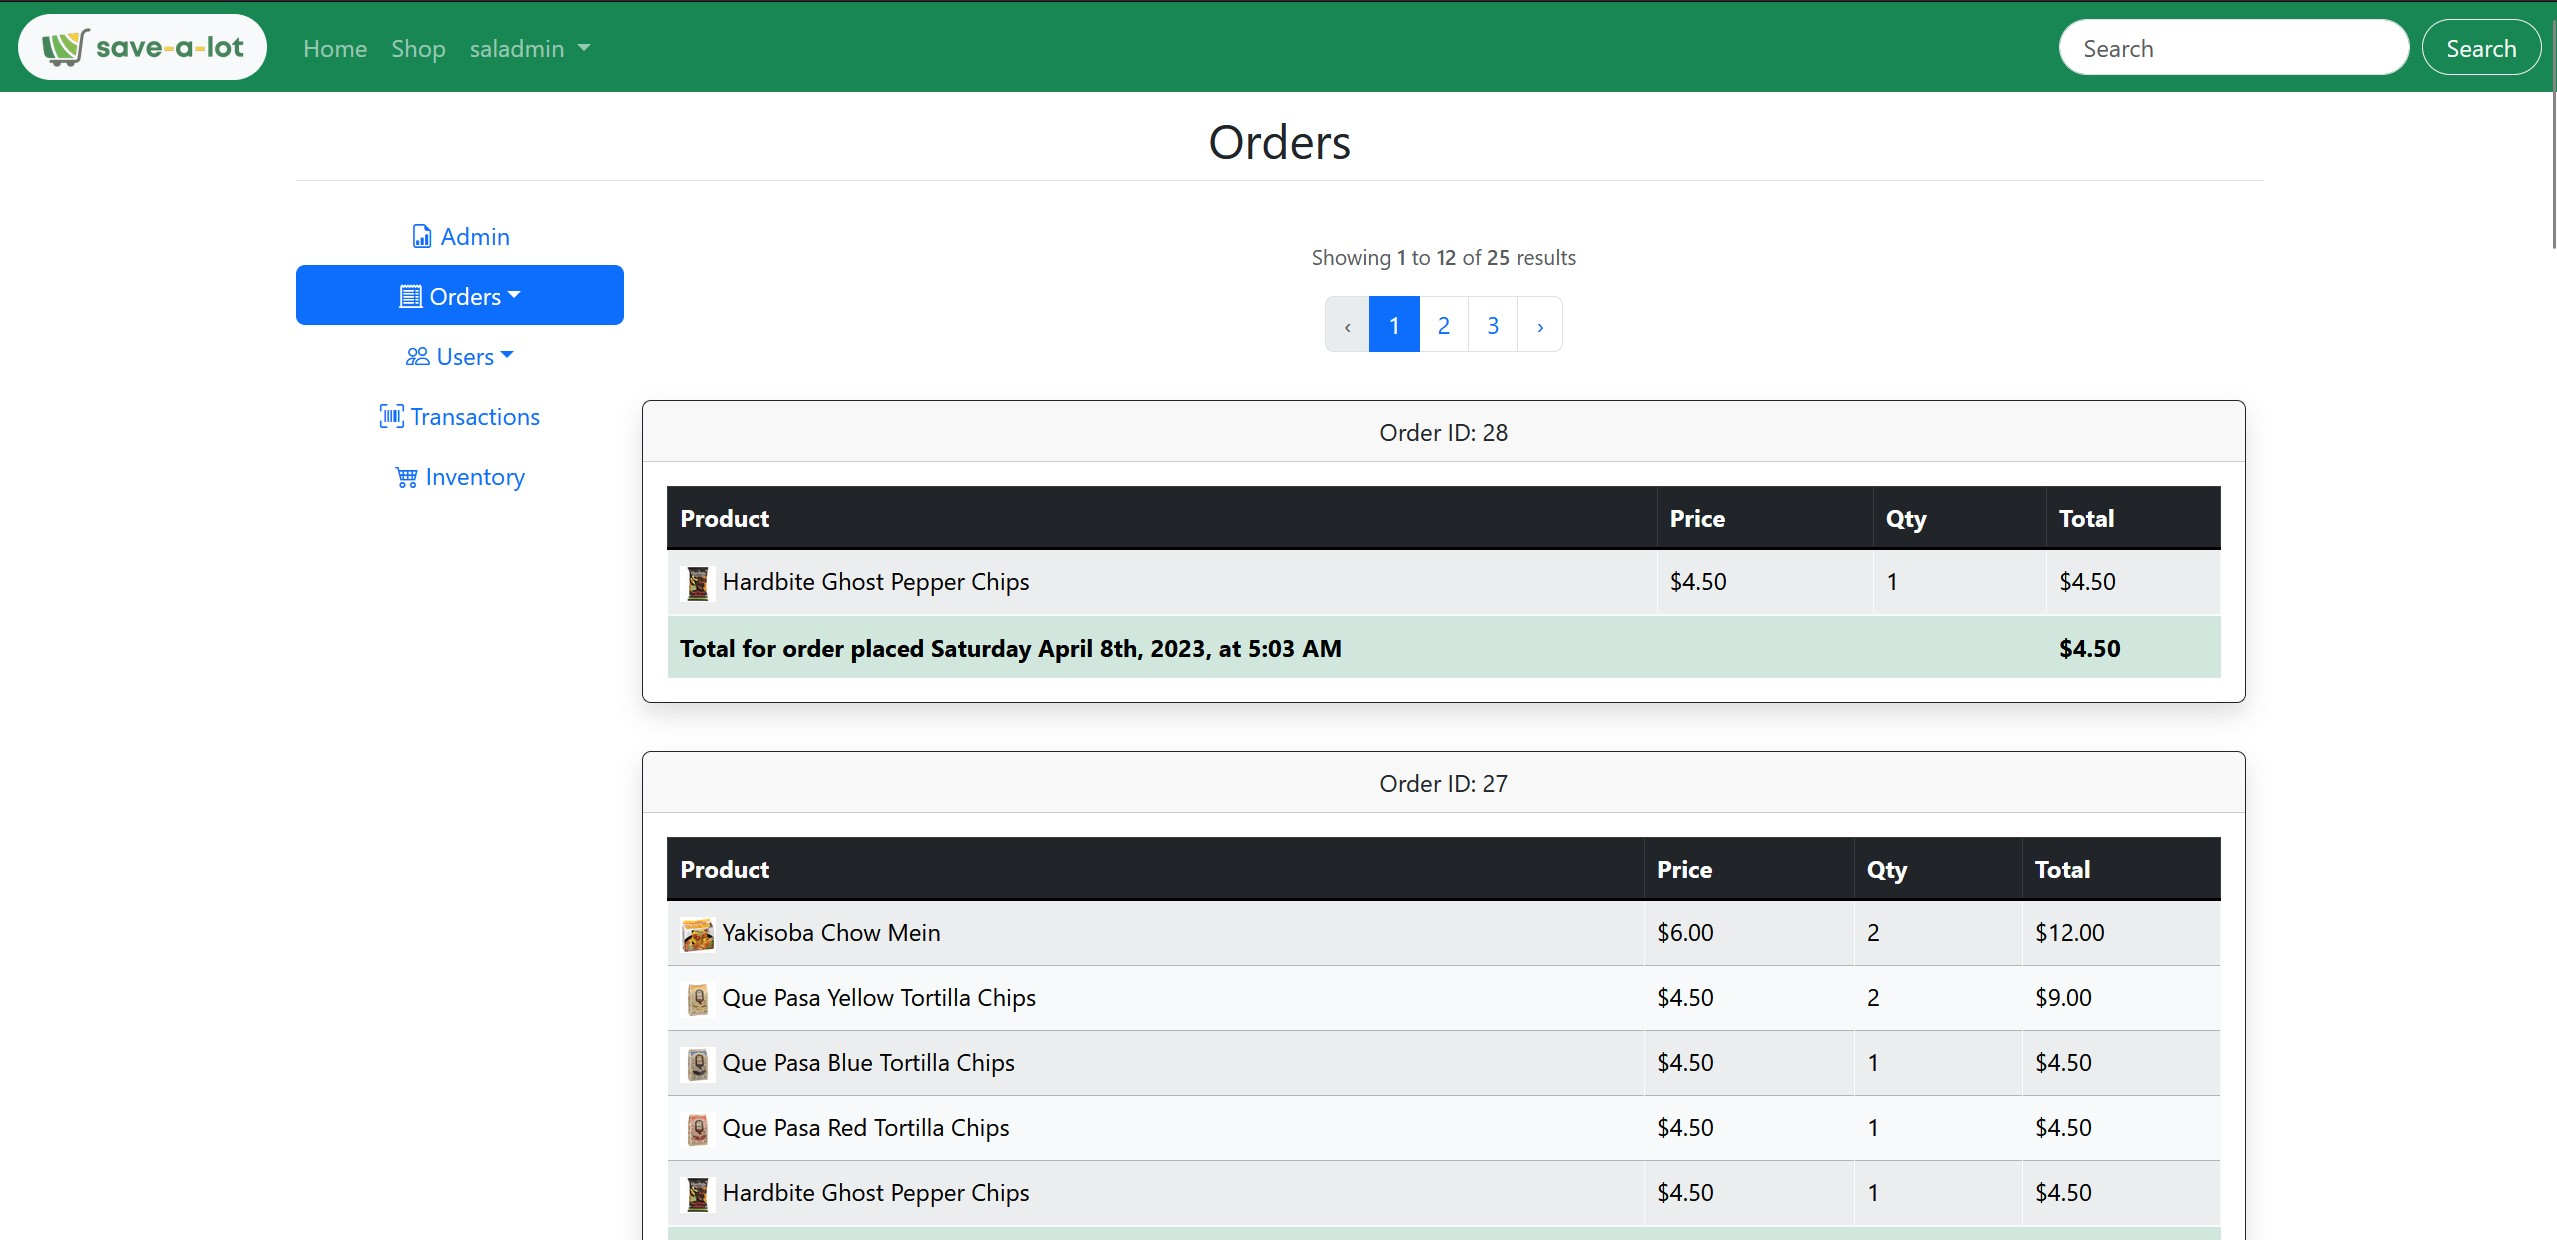
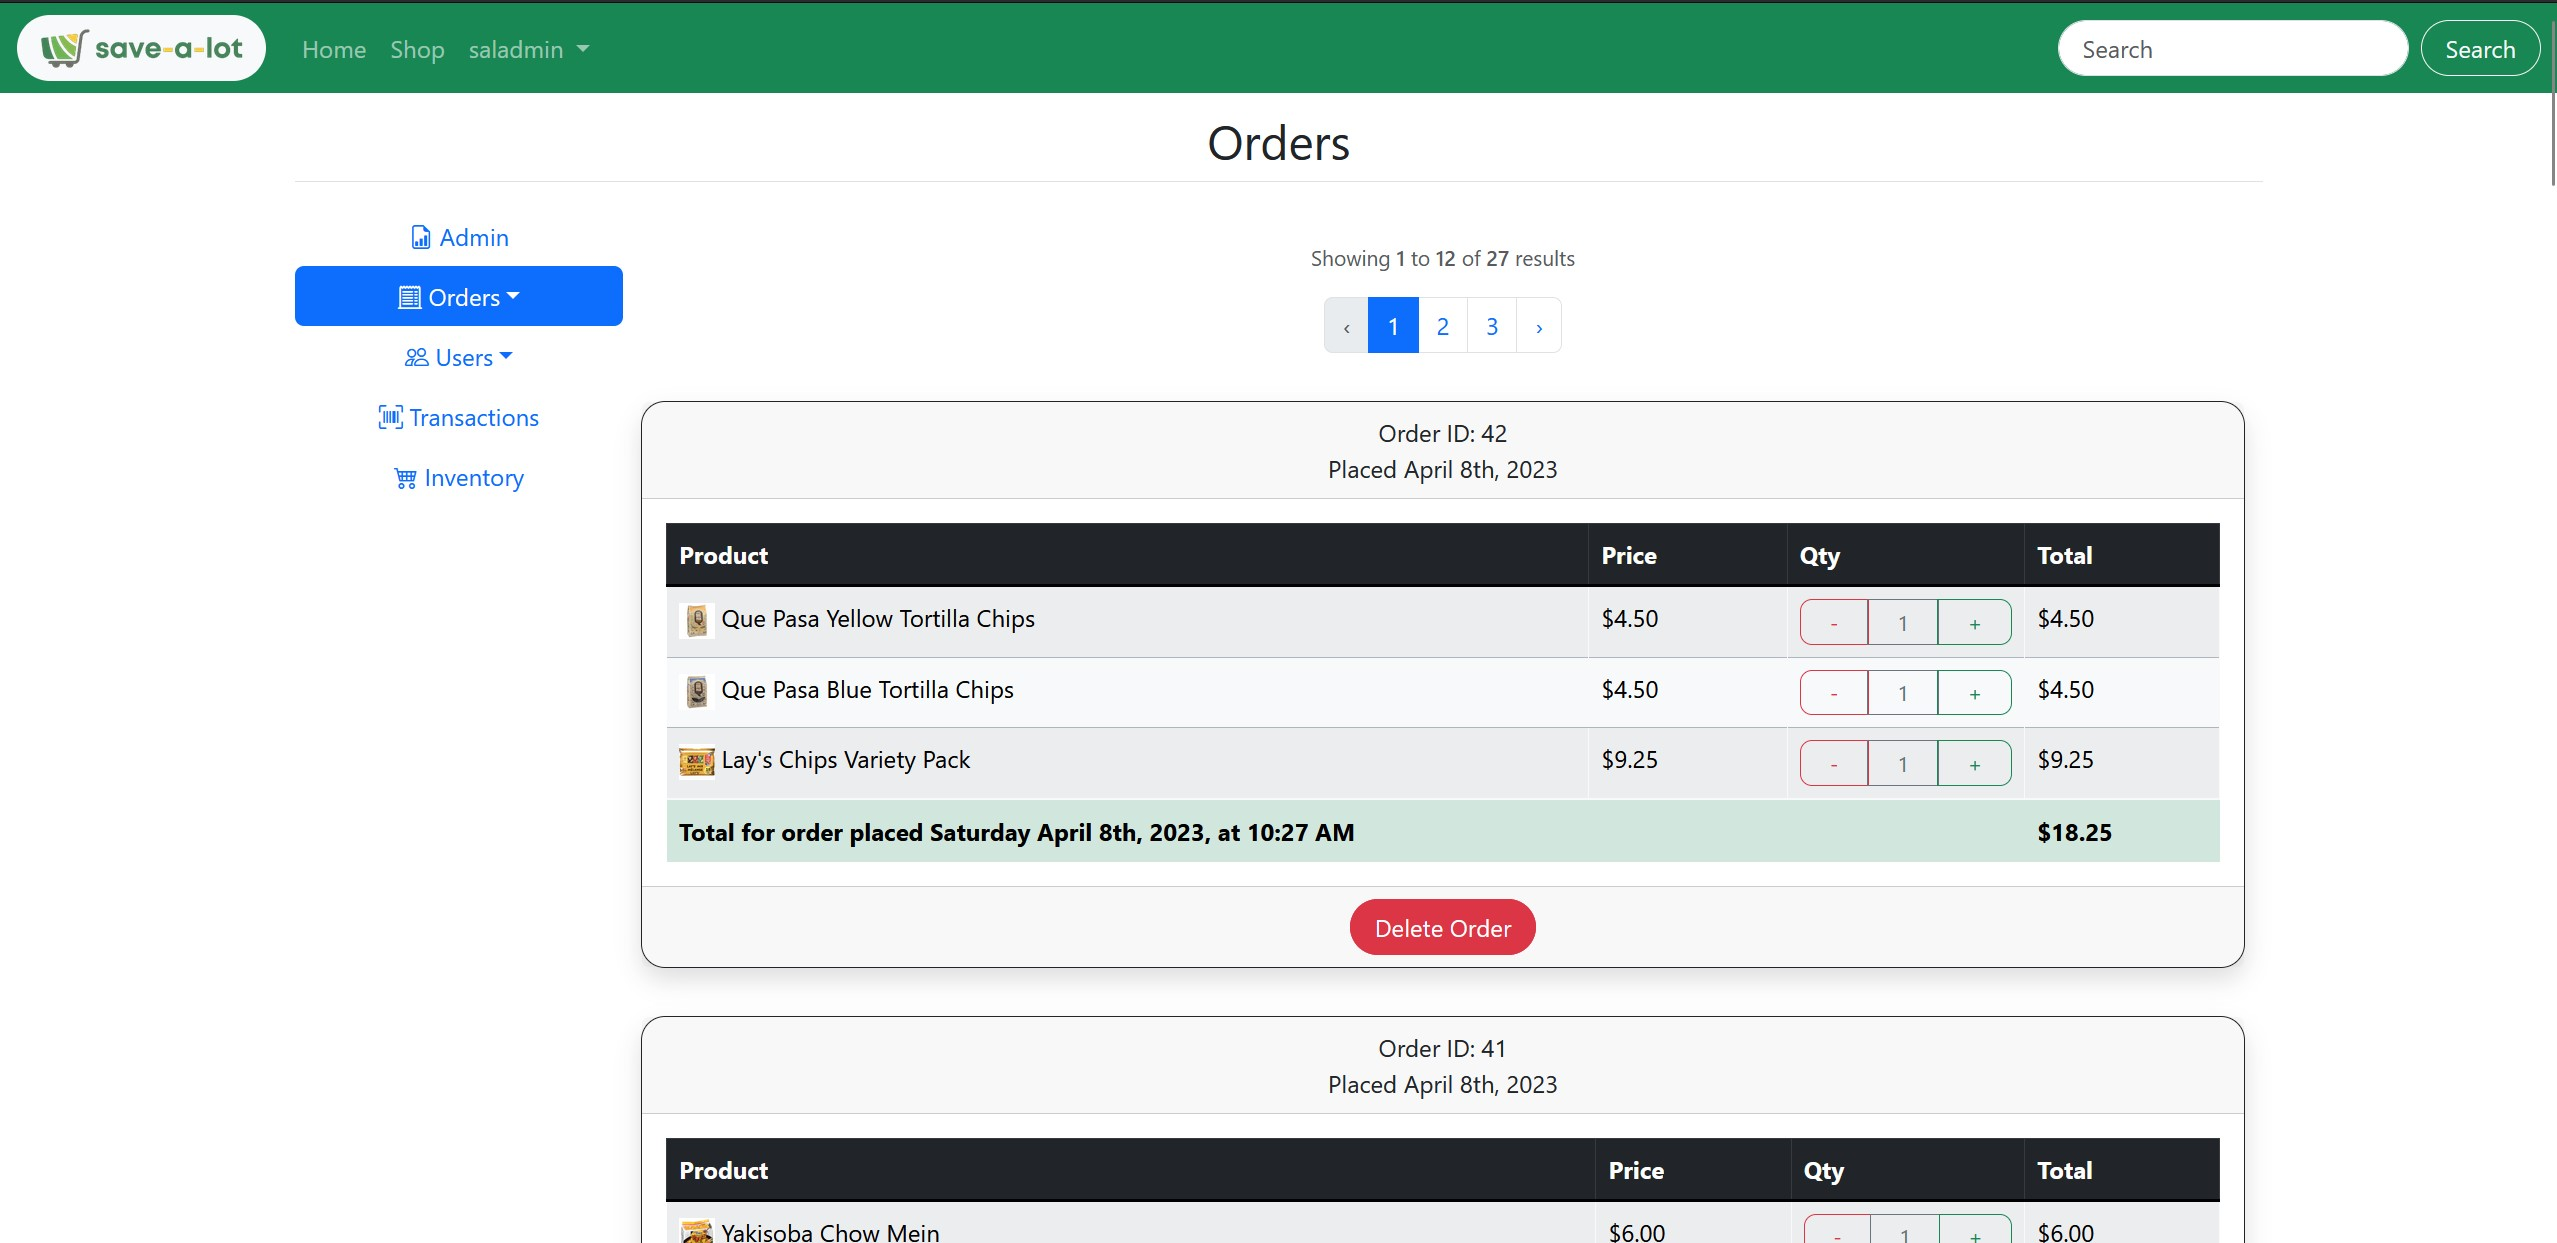
Add files via upload

diff --git a/Savealot_Documentation.md b/Savealot_Documentation.md
@@ -202,9 +202,10 @@ The view also restricts access of the dashboards to only the admin user, using t
 ![](img/final18.jpg)
 ![](img/final19.jpg)
 ![](img/final20.jpg)
+![](img/final23.jpg)
 
 ### <ins>Admin controller functions </ins>
-The controller functions comprise of dashboard() functions for each data visualization tool, and inventory control functions to edit or create inventory items:
+The controller functions comprise of dashboard() functions for each data visualization tool, order control functions to modify or delete existing orders, and inventory control functions to edit, create, or delete inventory items:
 - OrdersDashboard(): calculates the time series for the charts' X labels and pass queried data from the model to the view to be fed to the Canvas API object. Data in this function pertains to orders and revenue.
 - UsersDashboard(): calculates the time series for the charts' X labels and pass queried data from the model to the view to be fed to the Canvas API object. Data in this function pertains to the count of new users being created.
 - InventoriesDashboard(): calculates the count of in stock items for each item in the inventory.
